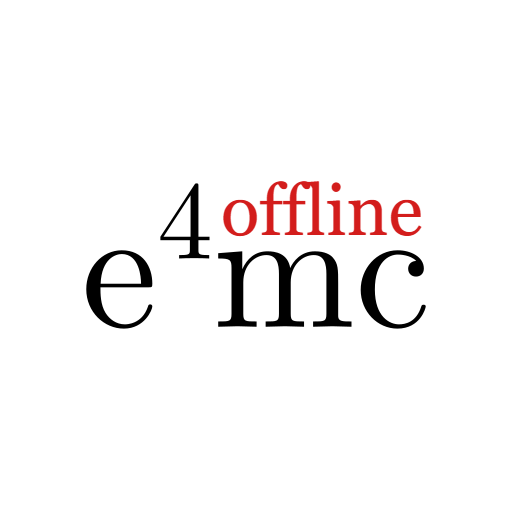
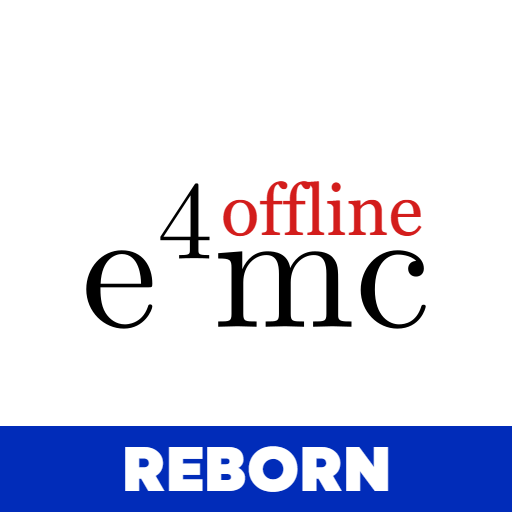
Offline E4MC Reborn is Here !!

Changed region(s): [[0.0, 0.8125, 1.0, 1.0]]

diff --git a/src/main/java/com/syanicxd/e4mcoffline/mixin/IntegratedServerMixin.java b/src/main/java/com/syanicxd/e4mcoffline/mixin/IntegratedServerMixin.java
@@ -20,10 +20,17 @@ public class IntegratedServerMixin {
 
         // Notify stuff
         MinecraftServer server = (MinecraftServer)(Object)this;
-        String message = "[§coffline-e4mc§r] Server allowed offline/cracked players to join §aSuccessfully§r";
+        String message = "§8[§coffline-e4mc§8]§r Changed §n§6Online Mode§r to False §aSuccessfully§r";
+
+        Text textMessage = createText(message);
 
         for (ServerPlayerEntity player : server.getPlayerManager().getPlayerList()) {
-            player.sendMessage(Text.literal(message), false);
+            player.sendMessage(textMessage, false);
         }
+    }
+
+    private Text createText(String message) {
+        // Create a Text object compatible with all versions
+        return Text.of(message); // This is compatible with both older and newer versions
     }
 }

diff --git a/src/main/java/com/syanicxd/e4mcoffline/E4MCOOfflineMod.java b/src/main/java/com/syanicxd/e4mcoffline/E4MCOOfflineMod.java
@@ -9,6 +9,7 @@ public class E4MCOOfflineMod implements ModInitializer {
 
     @Override
     public void onInitialize() {
-        LOGGER.info("E4MC Offline Mod initialized");
+        LOGGER.info("[e4mc-offline] E4MC Offline Reborn Mod initialized");
+        LOGGER.info("[e4mc-offline] Don't forget to say thanks to SyanicXD :)");
     }
 }

diff --git a/README.md b/README.md
@@ -1,24 +1,25 @@
-# Offline e4mc
-> UPDATE: Mod is rejected due to relation with promption by term "cracked" minecraft, will reupload soon..
-![image](https://github.com/user-attachments/assets/ee5d0055-3478-4a57-99f3-fdcbf88936ce)
-
+# Offline e4mc (REBORN)
 > This repo contains source code of mod e4mc offline by **SyanicXD**
+### *This mod can be used with [e4mc mod](https://modrinth.com/mod/e4mc). Not affiliated with e4mc.
 
-### *This mod is supposed be used with [e4mc mod](https://modrinth.com/mod/e4mc).
+**Offline e4mc** is a independent Minecraft mod designed to allow players to have more control over their LAN Behaviour, equavalient to setting `online-mode=false` i.e. only possible in minecraft server but is not possible via game's Built-in LAN Feature, offering support for Minecraft versions 1.18 to 1.21.1. 
 
-**Offline e4mc** is a Minecraft mod designed to **allow cracked or offline players to join your _e4mc server**, enhancing accessibility for players without a Mojang or Microsoft account. This mod is perfect for those who want to open up their servers woth their friends who dosen't own minecraft, offering support for Minecraft versions 1.20 through 1.21.1. 
+### This mod fixes the issue of _"Invalid session"_ in e4mc.
+![Before and After :)](https://cdn.modrinth.com/data/nb2gMoez/images/eb1d482da64857ea120bd38760204a54eb678b61.png)
 
-### This mod fixes the issue of _"Invalid session"_ because [she wont](https://github.com/vgskye/e4mc-minecraft-architectury/issues/31).
-![Before and After :)](https://cdn.modrinth.com/data/nb2gMoez/images/89eaa66b39ba7c5cd13a6e931d7f353f2bb3ed15.png)
-## ℹ Some extra info
+<details>
+<summary>Some extra info..</summary>
+
 This is **not a fork of e4mc** but an **independent mod** that changes lan behaviour equavalient to `online-mode=false` in dedicated servers. (that you can't without a mod ingame)
 ![Replace this with a description](https://cdn.modrinth.com/data/cached_images/15ecc9c34797b1496eb3c2fd576246ad0c6ba270.png)
 **Note: This mod is independent and is not affiliated with e4mc in any way.**
 
+</details>
+
 ## FAQ
 
 ### Q- What is this mod?
-A- This mod can be used with [e4mc](https://modrinth.com/mod/e4mc) mod which allow players without an official minecraft account (cracked/offline accounts) can join your hosted server. 
+A- This mod can be used with [e4mc](https://modrinth.com/mod/e4mc) which does the equavalient of `online-mode=false` that gives you more control over your (LAN) hosted world.
 
 ### Q- Do I need to apply this mode both host and client side?
 A- You don't need to install e4mc on both sides. Only need to apply this mod on **host side**
@@ -36,7 +37,7 @@ Create a codespace on the main branch by clicking on the green buttons as shown 
 
 Then run this to build the code
 ```
-sudo apt update -y && sudo apt upgrade -y && sdk install java 17.0.12-albba -y && sdk use java 17.0.12-albba && chmod +x ./gradlew && ./gradlew migrateMappings --mappings "1.20+build.1" && ./gradlew build
+sudo apt update -y && sudo apt upgrade -y && sdk install java 17.0.12-albba -y && sdk use java 17.0.12-albba && chmod +x ./gradlew && ./gradlew migrateMappings --mappings "1.18+build.1" && ./gradlew build
 ```
 
 The mod will be exported at build/libs (Use the jar without "-sources")
